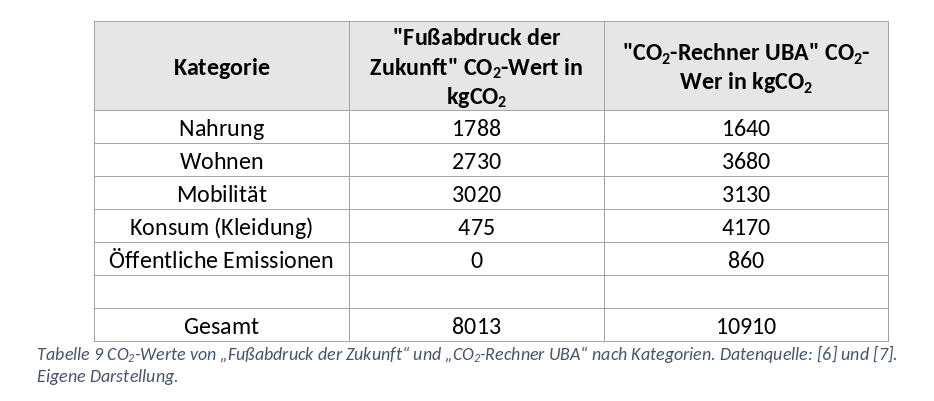
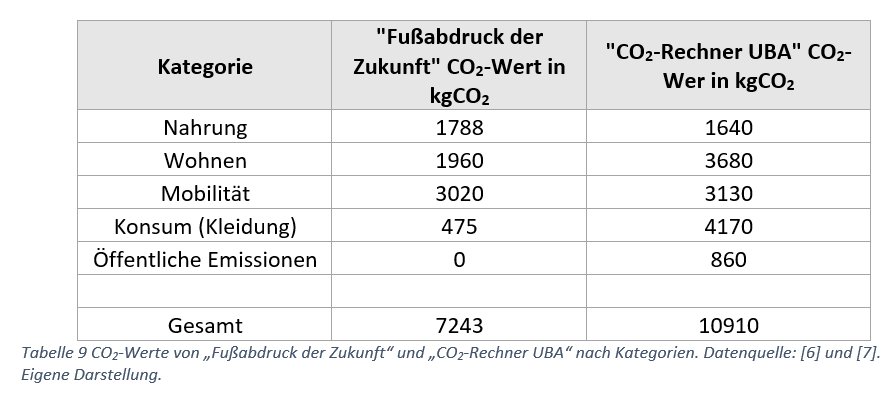
validierung

diff --git a/footprintapp.py b/footprintapp.py
@@ -49,10 +49,10 @@ def akt_abdruck(akt):
     co2_akt = [co2_nahrung1, co2_wohnen_temp, co2_mob1, co2_mob2, co2_konsum1]
     akt_abdruck = sum(co2_akt_nach_kat)
     
-    return akt_abdruck, co2_akt, co2_akt_nach_kat, faktor_nahrung
+    return akt_abdruck, co2_akt, co2_akt_nach_kat, faktor_nahrung, faktor_temp
 
 
-def optimize(akt, pref, min_vals, jahr, co2_akt, faktor_nahrung):
+def optimize(akt, pref, min_vals, jahr, co2_akt, faktor_nahrung, faktor_temp):
     #akt = [1.1, 'machmal wichtig', 21, 50, 100, 12,60]
     #pref=[1,10,10,10,10]
     #min_vals = [0,21,100,12,60]
@@ -113,16 +113,16 @@ def optimize(akt, pref, min_vals, jahr, co2_akt, faktor_nahrung):
             [0,0,1,-1,0,0,0,0,0,0,0,0,0,0,0,0,0,0,0,-1,0,0],
             [0,0,1,0,-1,0,0,0,0,0,0,0,0,0,0,0,0,0,0,0,-1,0],
             [0,0,0,1,-1,0,0,0,0,0,0,0,0,0,0,0,0,0,0,0,0,-1],
-            [-1,1,0,0,0,0,0,0,0,0,0,0,1,0,0,0,0,0,0,0,0,0],
-            [-1,0,1,0,0,0,0,0,0,0,0,0,0,1,0,0,0,0,0,0,0,0],
-            [-1,0,0,1,0,0,0,0,0,0,0,0,0,0,1,0,0,0,0,0,0,0],
-            [-1,0,0,0,1,0,0,0,0,0,0,0,0,0,0,1,0,0,0,0,0,0],
-            [0,-1,1,0,0,0,0,0,0,0,0,0,0,0,0,0,1,0,0,0,0,0],
-            [0,-1,0,1,0,0,0,0,0,0,0,0,0,0,0,0,0,1,0,0,0,0],
-            [0,-1,0,0,1,0,0,0,0,0,0,0,0,0,0,0,0,0,1,0,0,0],
-            [0,0,-1,1,0,0,0,0,0,0,0,0,0,0,0,0,0,0,0,1,0,0],
-            [0,0,-1,0,1,0,0,0,0,0,0,0,0,0,0,0,0,0,0,0,1,0],
-            [0,0,0,-1,1,0,0,0,0,0,0,0,0,0,0,0,0,0,0,0,0,1]]
+            [-1,1,0,0,0,0,0,0,0,0,0,0,-1,0,0,0,0,0,0,0,0,0],
+            [-1,0,1,0,0,0,0,0,0,0,0,0,0,-1,0,0,0,0,0,0,0,0],
+            [-1,0,0,1,0,0,0,0,0,0,0,0,0,0,-1,0,0,0,0,0,0,0],
+            [-1,0,0,0,1,0,0,0,0,0,0,0,0,0,0,-1,0,0,0,0,0,0],
+            [0,-1,1,0,0,0,0,0,0,0,0,0,0,0,0,0,-1,0,0,0,0,0],
+            [0,-1,0,1,0,0,0,0,0,0,0,0,0,0,0,0,0,-1,0,0,0,0],
+            [0,-1,0,0,1,0,0,0,0,0,0,0,0,0,0,0,0,0,-1,0,0,0],
+            [0,0,-1,1,0,0,0,0,0,0,0,0,0,0,0,0,0,0,0,-1,0,0],
+            [0,0,-1,0,1,0,0,0,0,0,0,0,0,0,0,0,0,0,0,0,-1,0],
+            [0,0,0,-1,1,0,0,0,0,0,0,0,0,0,0,0,0,0,0,0,0,-1]]
     b_ub = [max_co2,-min_vals[0],-(min_vals[1]-18),-min_vals[2],-min_vals[3],-min_vals[4],pow(max_prefdiff,2),0,0,0,0,0,0,0,0,0,0,0,0,0,0,0,0,0,0,0,0]
     A_eq = [[-akt[0]*53*1860*1/6*1/340,0,0,0,0,1,0,0,0,0,0,0,0,0,0,0,0,0,0,0,0,0],
             [-akt[0]*53*1860*1/6*1/660,0,0,0,0,0,1,0,0,0,0,0,0,0,0,0,0,0,0,0,0,0],
@@ -132,10 +132,20 @@ def optimize(akt, pref, min_vals, jahr, co2_akt, faktor_nahrung):
             [-akt[0]*53*1860*1/6*1/1370,0,0,0,0,0,0,0,0,0,1,0,0,0,0,0,0,0,0,0,0,0]]
     b_eq = [0.273*365+akt[0]*53*1860*1/6*1/340, 0.202*365+akt[0]*53*1860*1/6*1/660, 0.427*365+akt[0]*53*1860*1/6*1/660, 0.212*365+akt[0]*53*1860*1/6*1/3040, 0.151*365+akt[0]*53*1860*1/6*1/860, 0.04*365+akt[0]*53*1860*1/6*1/1370]
     
+    
+    co2_nahrung1min = min_vals[0]*7.21*53*faktor_nahrung
+    co2_nahrung2min = (99.5*0.36+73.6*0.437+159.6*7.34+77.4*0.82+55*3.23+14.5*1.931)*faktor_nahrung
+    co2_wohnen_strommin = 0.429*1964
+    co2_wohnen_tempmin = 0.27* min_vals[1] *80*faktor_temp
+    co2_mob1min = 0.2045*min_vals[2]
+    co2_mob2min = (min_vals[3]*1049.8*0.197)/4
+    co2_konsum1min = 8.45 * min_vals[4]
+    co2_min = [co2_nahrung1min, co2_nahrung2min,co2_wohnen_strommin, co2_wohnen_tempmin, co2_mob1min, co2_mob2min, co2_konsum1min]
+    minfussmitminvals = sum(co2_min)
     #Löse lineares Programm
     res = sc.linprog(c, A_ub, b_ub, A_eq, b_eq, bounds=[(0,1),(0,1),(0,1),(0,1),(0,1),(0,None),(0,None),(0,None),(0,None),(0,None),(0,None),(1,1),(0,1),(0,1),(0,1),(0,1),(0,1),(0,1),(0,1),(0,1),(0,1),(0,1)], method='simplex')
        
-    return res.x, max_prefdiff, max_co2
+    return res.x, max_prefdiff, max_co2, minfussmitminvals
        
 # 
 # Titellines -----------------------------------------------------------------------------------------------------------------------
@@ -236,7 +246,7 @@ elif navigation == "Rechner: Fußabdruckoptimierung":
     
      # Berechne den aktuellen fußabdruck
     akt = [float(nahrung1),nahrung2,wohnen1,float(wohnen2),float(mob1),float(mob2),float(konsum1)]
-    akt_abdruck, co2_akt, co2_akt_nach_kat, faktor_nahrung = akt_abdruck(akt)
+    akt_abdruck, co2_akt, co2_akt_nach_kat, faktor_nahrung, faktor_temp = akt_abdruck(akt)
         
     checkbox1 = st.checkbox(label="Schritt 1 abschließen: Fußabdruck berechnen")
     if checkbox1:
@@ -245,14 +255,14 @@ elif navigation == "Rechner: Fußabdruckoptimierung":
         col1.image(imagefuss, width=700, use_column_width=True, clamp=False, channels='RGB', output_format='auto')
         col2.markdown("""<br>
                 <center><font size="4"><b>Dein aktueller Fußabdruck beträgt """+ str(round(akt_abdruck))+""" Kilogramm.</b></font></center><br>
-                Zum Vergleich: Der durchnittliche CO<sub>2</sub> Fußabdruck in Deutschland im Jahr 2019 lag bei ca 7900 Kilogramm.
+                Zum Vergleich: Der durchnittliche CO<sub>2</sub> Fußabdruck in Deutschland liegt bei ca. 7300 Kilogramm.
                 Der durchschnittliche weltweite CO<sub>2</sub> Fußabdruck liegt bei 4800 Kilogramm.<br>
                 In dem neben stehenden Diagramm findest du den Vergleich zum durchnittlichen Fußabdruck eines 
                 Menschen in Deutschlands zu deinem Fußabdruck, aufgeschlüsselt in die vier Kategorien.
                 """,unsafe_allow_html=True)
             
         df = pd.DataFrame(
-            [["Nahrung", 1788,co2_akt_nach_kat[0]], ["Wohnen", 2730,co2_akt_nach_kat[1]], ["Mobilität", 3020,co2_akt_nach_kat[2]],["Kleiderkonsum",474,co2_akt_nach_kat[3]]],
+            [["Nahrung", 1788,co2_akt_nach_kat[0]], ["Wohnen", 1960,co2_akt_nach_kat[1]], ["Mobilität", 3020,co2_akt_nach_kat[2]],["Kleiderkonsum",474,co2_akt_nach_kat[3]]],
             columns=["Kategorie","Durchschnitt CO<sub>2</sub> Deutschland", "Dein CO<sub>2</sub>"])
         fig = px.bar(df, x="Kategorie", y=["Durchschnitt CO<sub>2</sub> Deutschland", "Dein CO<sub>2</sub>"], barmode='group', height=400)
         col3.plotly_chart(fig)
@@ -327,7 +337,7 @@ elif navigation == "Rechner: Fußabdruckoptimierung":
                         min_vals = [float(min_val_nahrung1),float(min_val_wohnen), float(min_val_mob1), float(min_val_mob2), float(min_val_konsum1)]
                         
                         
-                        solution,max_prefdiff,maxco2 = optimize(akt, pref, min_vals, jahr, co2_akt, faktor_nahrung)
+                        solution,max_prefdiff,maxco2,minfussmitminvals = optimize(akt, pref, min_vals, jahr, co2_akt, faktor_nahrung, faktor_temp)
                         #st.write(solution)
                         #st.write(max_prefdiff)
                     
@@ -341,6 +351,11 @@ elif navigation == "Rechner: Fußabdruckoptimierung":
                                  Informationen über die Grundlage dieser Berechnung. </font><br>
                                 """,unsafe_allow_html=True)
                     
+                        if minfussmitminvals > maxco2:
+                            st.markdown("""
+                                        <b><font size = 5>Wir können deinen Fussabdruck mit deinen Minimalangaben nicht weiter reduzieren,
+                                        vielleicht denkst du nochmal über deine Minimalangaben nach ;)
+                                        </font></b>""",unsafe_allow_html=True)
                         if akt_abdruck <= maxco2:
                             st.markdown("""
                                 <b>Super! Dein aktueller Fußabdruck liegt bereits unter der geforderten CO2-Grenze. 
